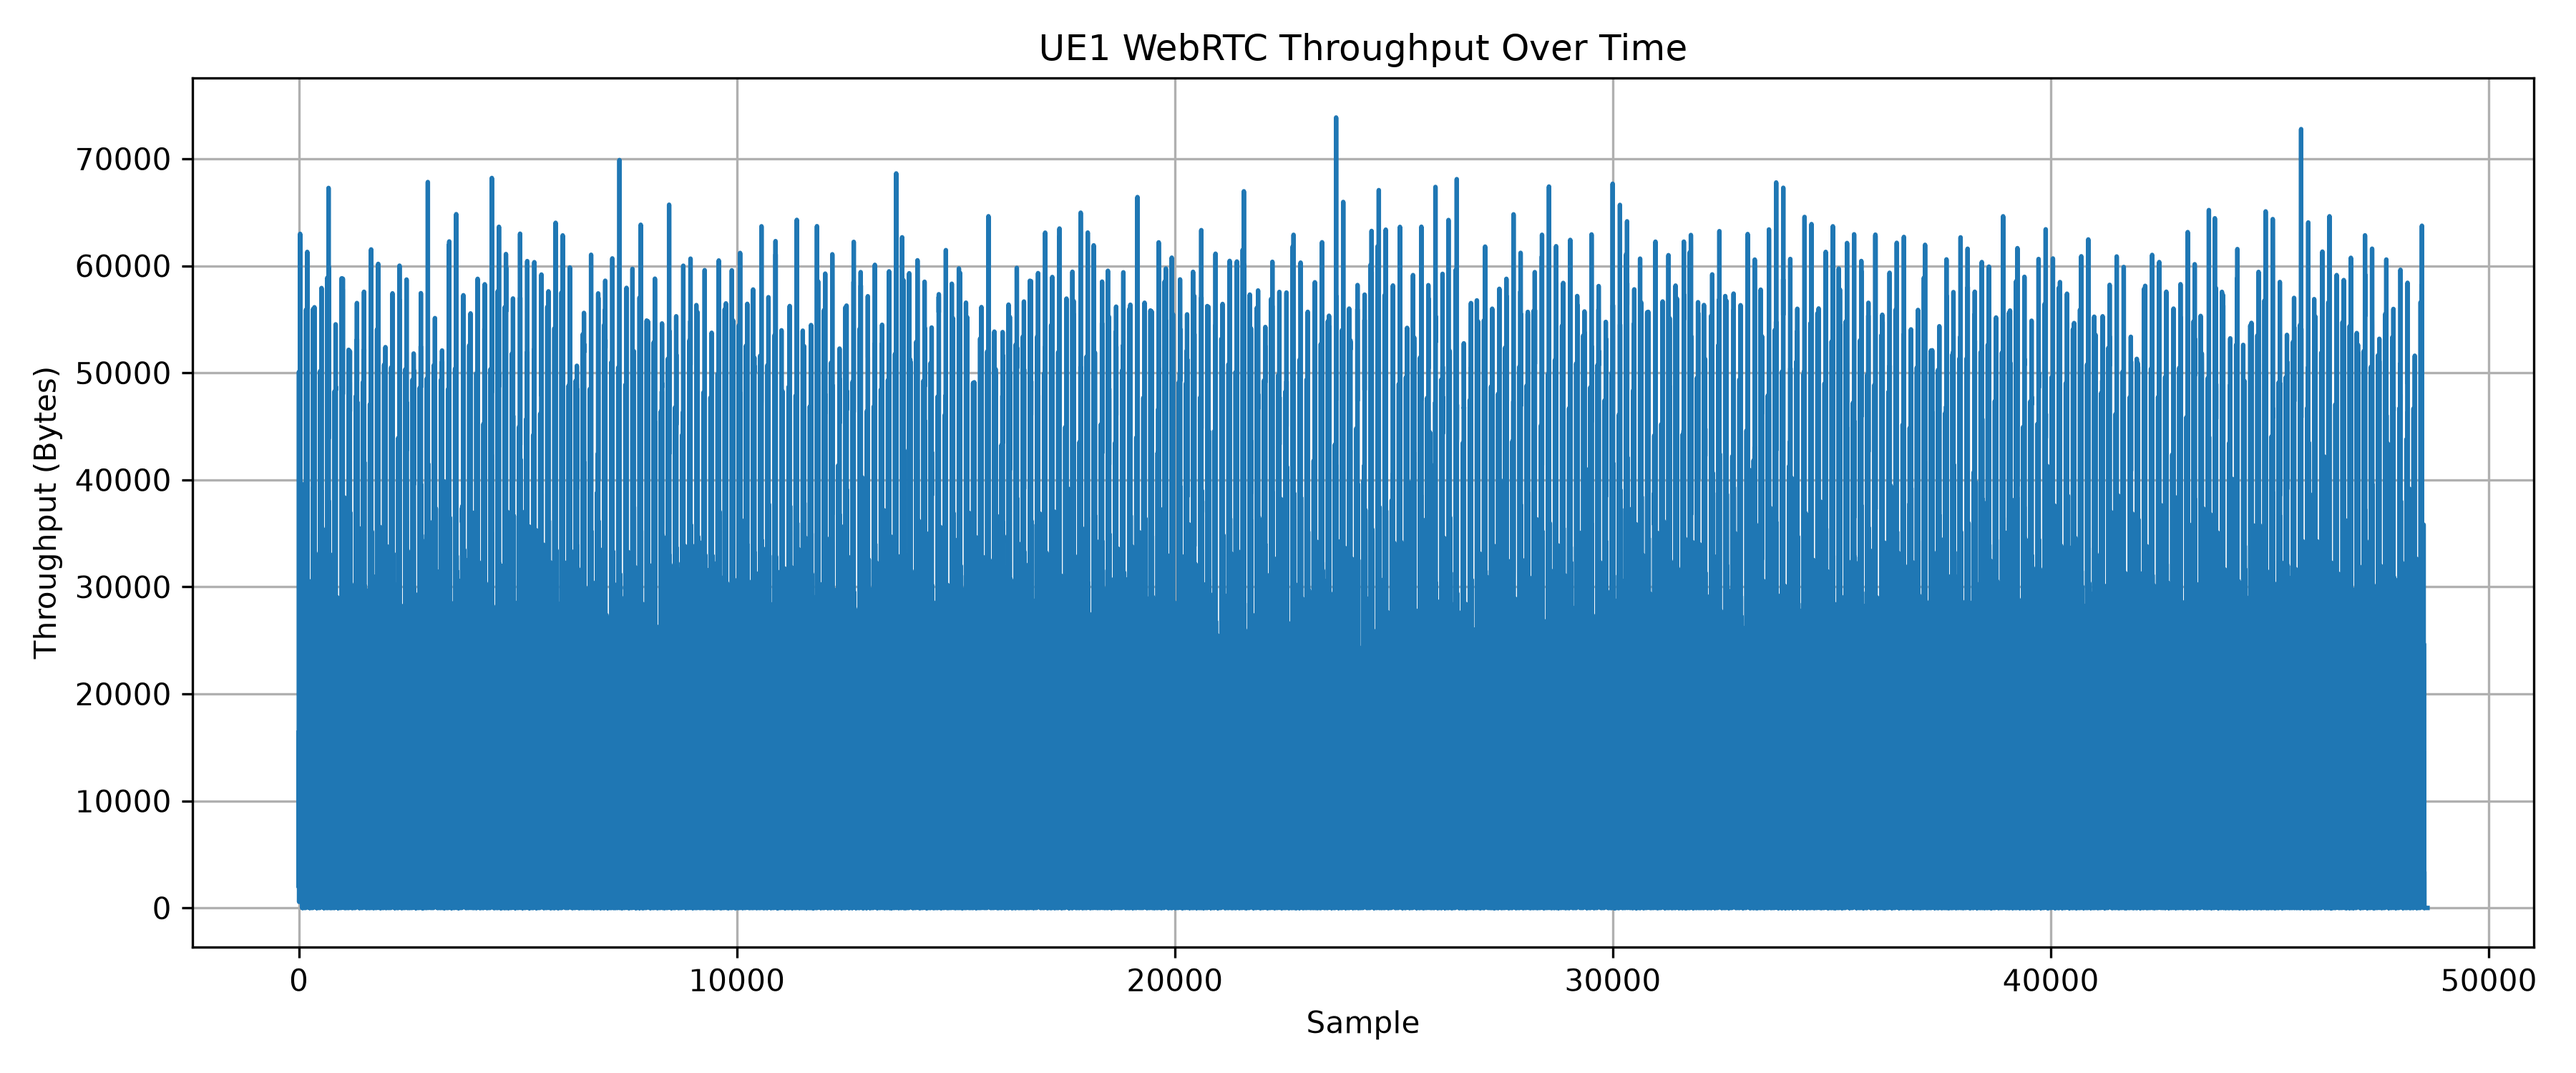
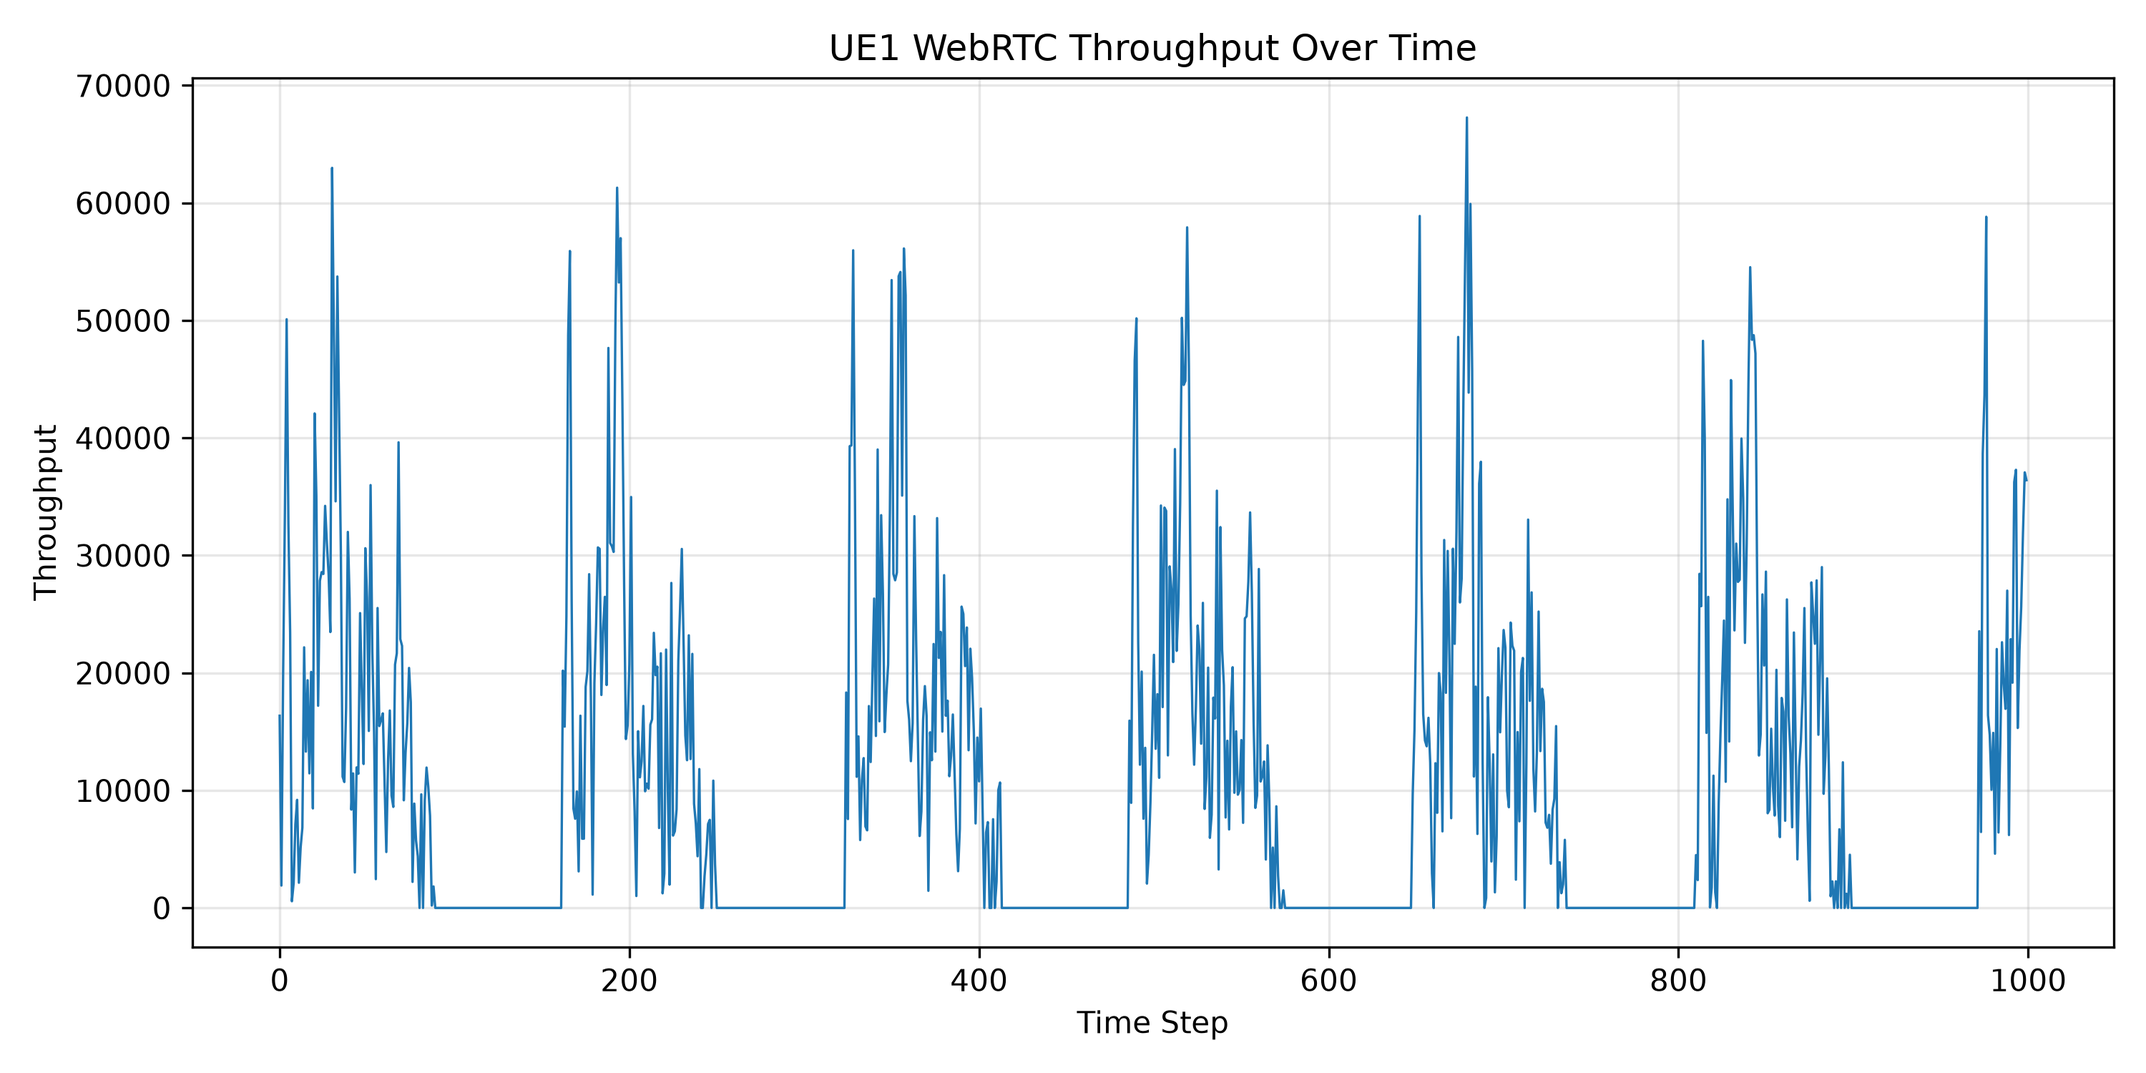
New Graphs

diff --git a/src/data_preprocessing.py b/src/data_preprocessing.py
@@ -1,4 +1,6 @@
 import pandas as pd
+import matplotlib.pyplot as plt
+
 from pathlib import Path
 from sklearn.preprocessing import MinMaxScaler
 
@@ -107,3 +109,46 @@ print("\nProcessed dataset saved successfully.")
 print("Lag features: lag1, lag2, lag3")
 print("Normalization: MinMaxScaler")
 print("Train/Validation/Test Split: 70/15/15")
+
+
+
+# Use Times New Roman for all text in the figure
+plt.rcParams["font.family"] = "Liberation Serif"
+plt.figure(figsize=(10, 5))
+
+plt.plot(
+    df.index[:1000],
+    df[TARGET_COLUMN].iloc[:1000],
+    linewidth=0.8
+)
+
+plt.title(
+    "UE1 Throughput Over Time",
+    fontsize=18,
+    fontweight="bold"
+)
+
+plt.xlabel(
+    "Sample Index",
+    fontsize=14
+)
+
+plt.ylabel(
+    "Throughput (Bytes/s)",
+    fontsize=14
+)
+
+plt.xticks(fontsize=12)
+plt.yticks(fontsize=12)
+
+plt.grid(True, alpha=0.3)
+
+plt.tight_layout()
+
+plt.savefig(
+    "plots/01_ue1_throughput_over_time.png",
+    dpi=300,
+    bbox_inches="tight"
+)
+
+plt.show()
